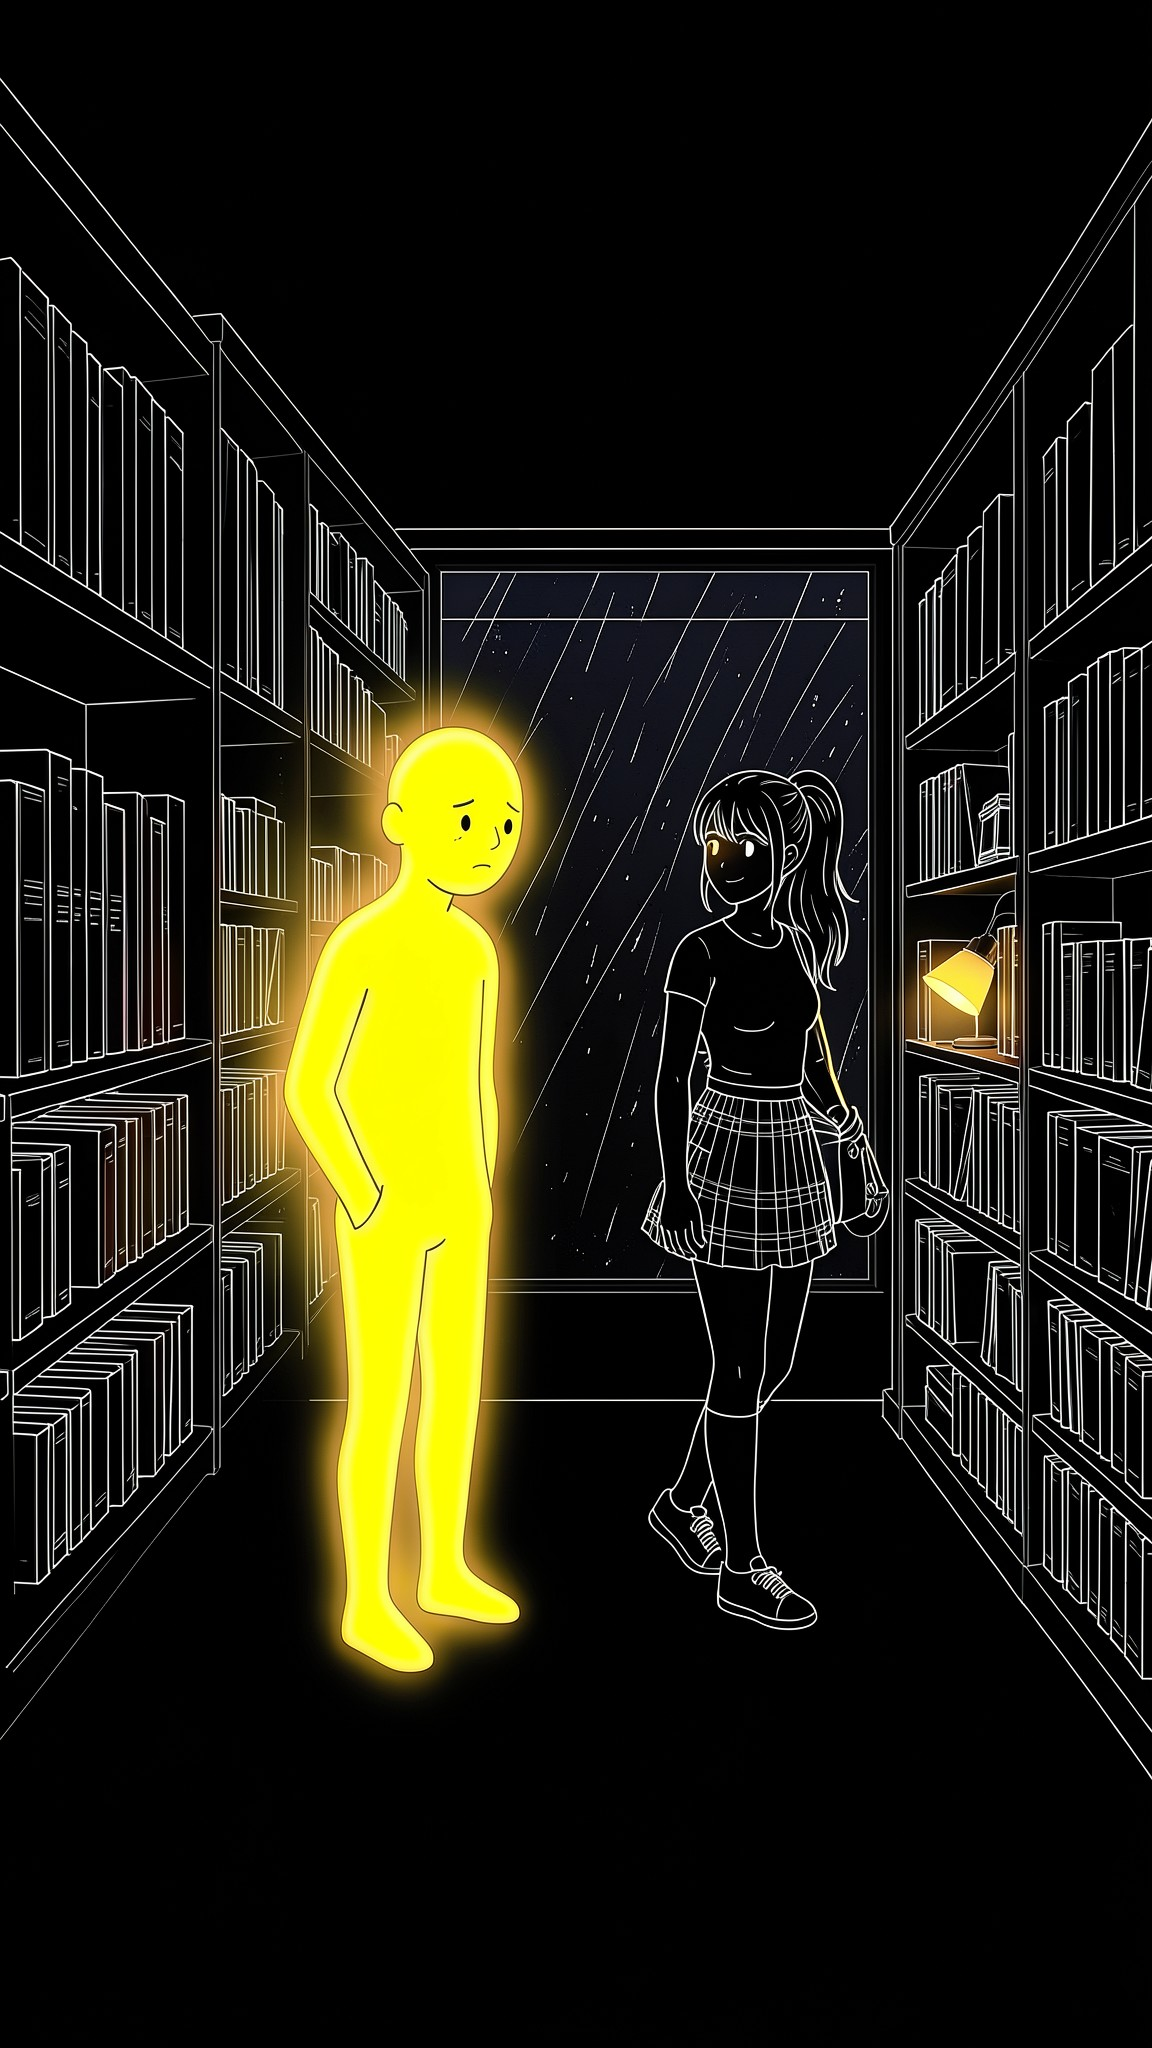
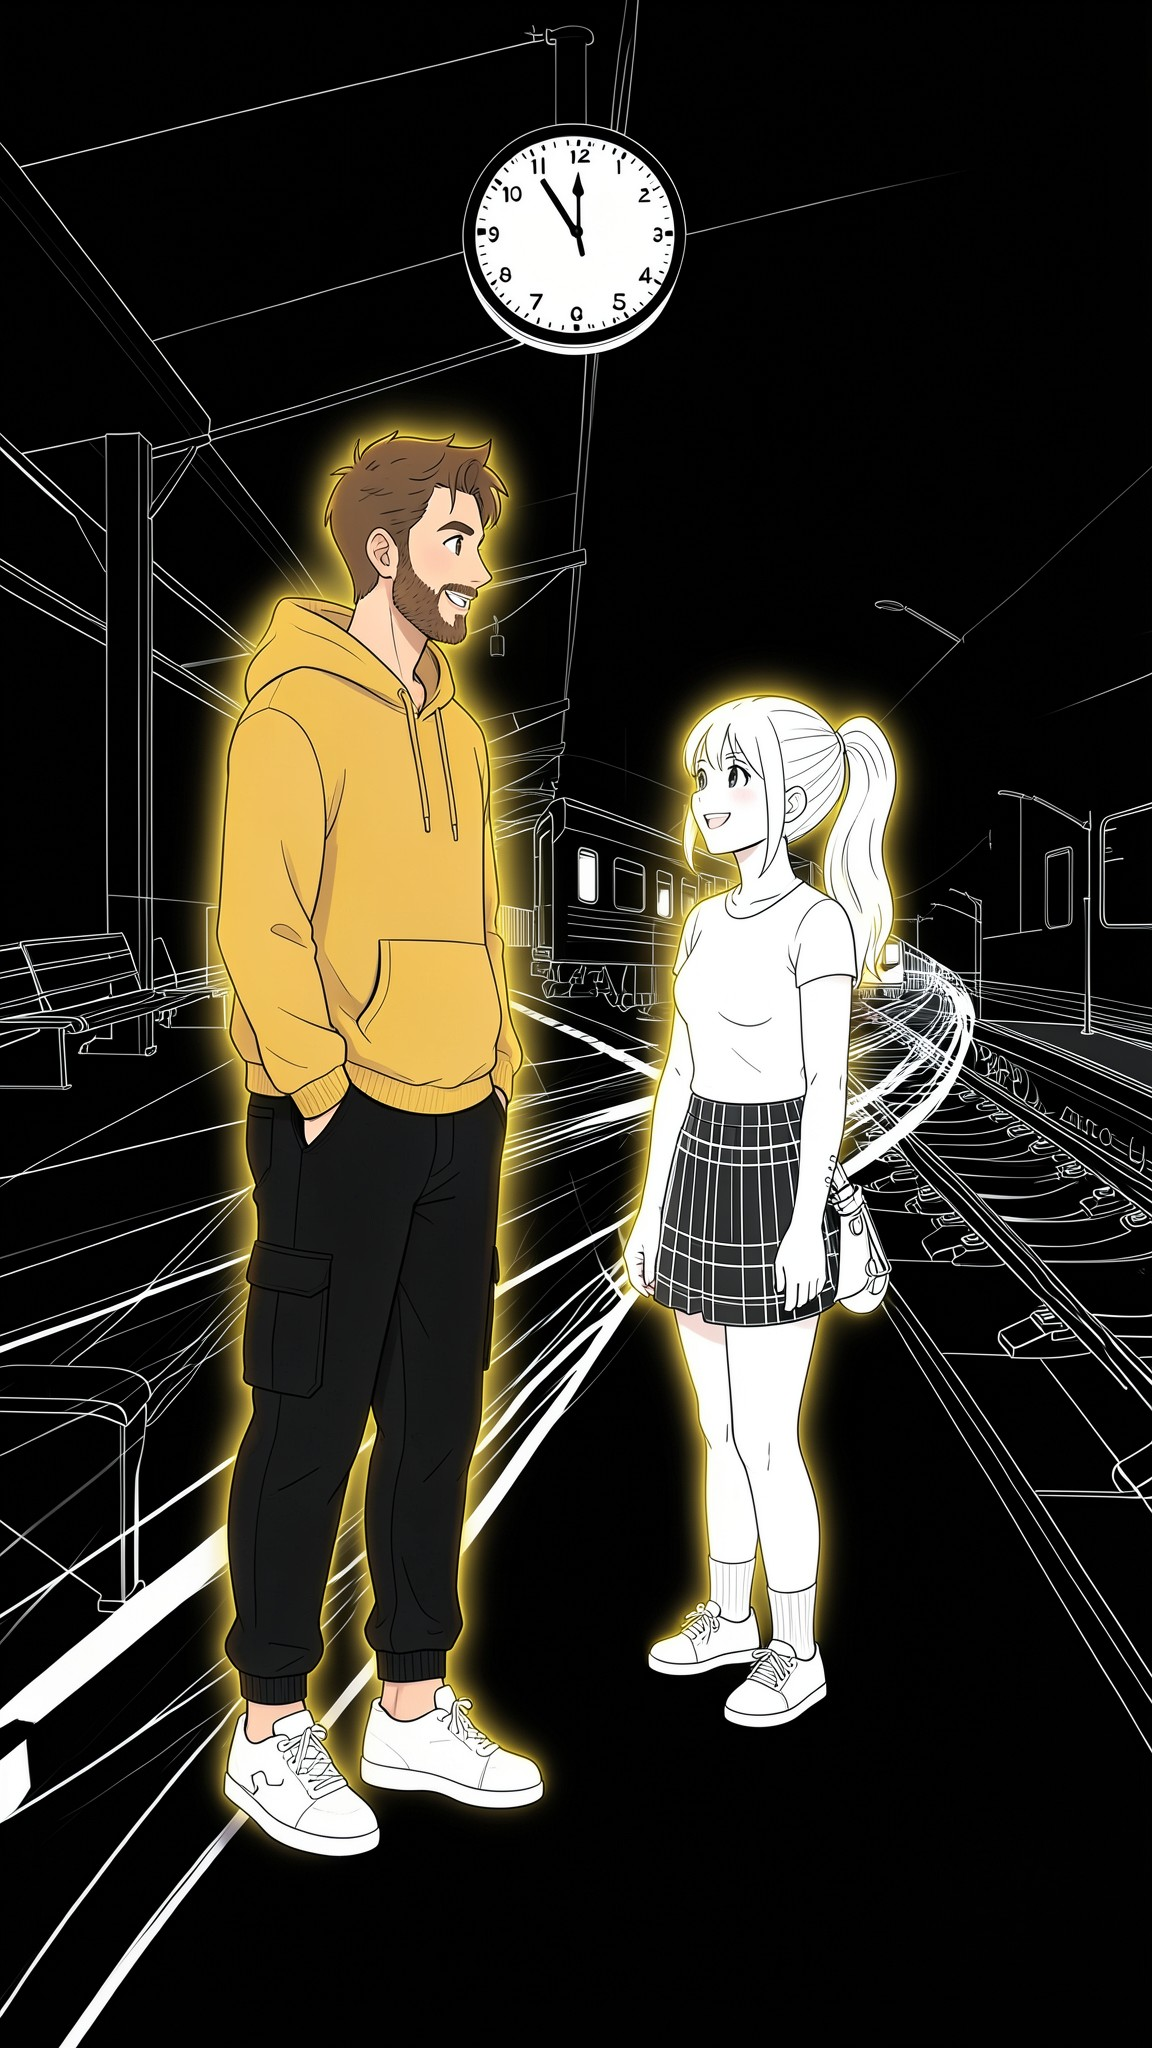
Switch main character to the bearded man in the yellow hoodie
Character sheet and crops in reels/refs, skill prompts and checks updated, man-face framing finds his face.

Claude-Session: https://claude.ai/code/session_01A4k1TtENJKSoeJ9vs1pbsG

diff --git a/reels/make_reel.py b/reels/make_reel.py
@@ -173,7 +173,7 @@ def music_bed(spec, base, starts, n):
 def focus_point(img: Path, focus) -> tuple[float, float, float]:
     """(x, y) on the image to look at, and how far down the frame to place it (0.5 = centre).
     Faces go in the upper third so the centred caption never covers them.
-    'man'/'man-face' find the glowing yellow figure by colour; [x, y] or [x, y, frame_y] are explicit."""
+    'man'/'man-face' find the man by his yellow hoodie / glow; [x, y] or [x, y, frame_y] are explicit."""
     if isinstance(focus, list):
         return float(focus[0]), float(focus[1]), float(focus[2]) if len(focus) > 2 else 0.5
     if focus in (None, "wide"):
@@ -189,9 +189,16 @@ def focus_point(img: Path, focus) -> tuple[float, float, float]:
     y0, y1 = np.percentile(ys, [2, 98])
     cx = (x0 + x1) / 2 / 192
     if focus == "man-face":
+        # The man's hair, skin and glow outline are warm but darker than his yellow hoodie: take the top of the
+        # looser warm mask as the top of his head; the face sits about a tenth of his height below it.
+        warm = (r > 120) & (g > 90) & (b < 90) & (r - b > 60)
+        wy, wx = np.nonzero(warm)
+        if len(wx) >= 40:
+            y0, y1 = np.percentile(wy, [2, 98])
+            ys, xs = wy, wx
         head = ys < y0 + (y1 - y0) * 0.2
         cx = xs[head].mean() / 192 if head.any() else cx
-        return cx, (y0 + (y1 - y0) * 0.12) / 344, 0.32
+        return cx, (y0 + (y1 - y0) * 0.1) / 344, 0.32
     return cx, (y0 + y1) / 2 / 344, 0.5
 
 

diff --git a/reels/overlay_kit.py b/reels/overlay_kit.py
@@ -64,7 +64,7 @@ def bubble(im, box, s, tail, size=56, line=WHITE, txt=WHITE, color=YELLOW):
 
 
 def yellow_mask(im):
-    """0-255 mask of the glowing yellow man (yellow pixels and their glow)."""
+    """0-255 mask of the yellow parts of the man: the whole old mannequin, or the new man's hoodie and glow."""
     a = np.asarray(im.convert("RGB")).astype(int)
     return Image.fromarray(np.clip(((a[..., 0] + a[..., 1]) / 2 - a[..., 2] - 25) * 4, 0, 255).astype("uint8"))
 

diff --git a/.claude/skills/facebook-reels/SKILL.md b/.claude/skills/facebook-reels/SKILL.md
@@ -7,7 +7,13 @@ description: Make a finished 9:16 psychology/dating Facebook reel from a script 
 
 The user sends a script; you deliver a finished MP4 in `D:\Claude\reels\output\`. Do the whole pipeline yourself —
 never propose building an app. Reference look: `D:\Claude\sample.mp4` (9:16, ~45 s, black background, white line
-art, glowing yellow faceless man + anime girl, one word at a time captions in the centre, dark trap bed).
+art, the bearded man in the yellow hoodie (see below) + anime girl, one word at a time captions in the centre, dark trap bed).
+
+**Main character (from reel 9 on — always him, never the old yellow mannequin):** `reels/refs/man-sheet.jpg`, the user's
+character sheet "The Inner You": young man, short tousled brown hair, short neat brown beard, warm friendly eyes,
+mustard-yellow hoodie, black cargo joggers, white sneakers, soft warm yellow glow around his outline. He is the only
+colour in the frame; the world and the girl stay white line art on black. The sheet also has his expressions
+(`man-expressions.jpg`) and optional outfits (blazer, olive jacket, grey tee with sling bag) for scenes that need them.
 
 Everything lives in `D:\Claude\reels\`. Each reel gets its own folder `reels/<slug>/` (prompts.json, script.txt,
 voice takes, img/, reel.json). Reuse the newest reel folder as a template — `reels/first-date/` is the most complete.
@@ -30,6 +36,7 @@ voice takes, img/, reel.json). Reuse the newest reel folder as a template — `r
 | 6 | "Body turned away, feet toward him" drawn the other way round (she faced him, feet away) | Check every body-language image says exactly what the line says (who faces whom, where the feet point). Klein always turns her face to the man — generate her alone in the pose, then paste the yellow man (cut out by his yellow pixels) on the side her feet point to |
 | 6 | Feet close-ups with crossed / back-to-front feet | Feet shots: two natural feet side by side, both toes the same way, side profile; reject any odd anatomy |
 | 7 | Man with three arms / extra hands on one side (s02 polite, s08 pointing) | **Anatomy check on every image**: count arms, hands, legs, feet per character at full size. Klein keeps the reference's hand-in-pocket and adds the new gesture as an extra arm — for any gesture, say what EACH arm does, add "exactly two arms and two hands, his hands NOT in his pockets", and make sure no arm crosses another face |
+| 8 | New main character | From reel 9 on the main character is the bearded man in the yellow hoodie (`refs/man-sheet.jpg`), never the yellow mannequin. Always pass `refs/man.jpg` as reference 1 |
 
 ## Where you are running
 
@@ -59,7 +66,9 @@ librosa can't read `voice-ref.m4a` there — convert it first (`ffmpeg -i ../aud
 - **Images (default)**: `python reels/polli.py jobs.json` → Pollinations FLUX.2 Klein 4B, parallel.
   Key: `$POLLINATIONS_KEY` or `~/.pollinations-key` locally; the proxy in the cloud. ~$0.005/image, 1152x2048. User approved the cost.
 - **Character references** (committed, use these for the establishing image of a new reel):
-  `reels/refs/characters.jpg` (man + girl), `reels/refs/man.jpg`, `reels/refs/girl.jpg`.
+  `reels/refs/man.jpg` (front/side/back of the main character — ALWAYS reference image 1 when he is in the shot),
+  `reels/refs/man-hero.jpg`, `reels/refs/characters.jpg` (him + the girl on a platform, the approved look),
+  `reels/refs/girl.jpg`. Old mannequin refs (`man-old-mannequin.jpg`, `characters-old.jpg`) are for old reels only.
   Previous reels' `img/` folders are not in git.
 - **Images (fallback, local PC only)**: Google Flow via flow-mcp (`C:\Users\Anojan\flow-mcp`). `python reels/flow.py <method> '<json>'`.
   If the server is down: run `reels/start_flow.ps1` in the background, then
@@ -93,12 +102,19 @@ librosa can't read `voice-ref.m4a` there — convert it first (`ffmpeg -i ../aud
 
 ### 3. Images — Klein with references
 - **House style** (start every prompt with it):
-  "Minimalist illustration on a pure black background, clean thin white line art with no shading. No colour
-  anywhere except the glowing yellow man. No text, letters or captions in the image unless described. Vertical 9:16 composition."
-- **Man** (in EVERY prompt where he appears, even background — else Klein draws a white human):
-  "The main character is a faceless glowing neon-yellow mannequin man: round bald head, simple cartoon face with two
-  black dot eyes, thin black eyebrows and a small black mouth, smooth solid yellow body with a soft yellow neon glow."
-- **Girl**: "A young woman drawn in white anime-style line art: long hair in a high ponytail, fitted t-shirt, plaid skirt."
+  "Minimalist illustration on a pure black background, clean thin white line art with no shading for the world and the
+  woman. The only colour in the image is the man. No text, letters or captions in the image unless described. Vertical 9:16 composition."
+  For shots with NO people use a version without any mention of the man ("…white lines only, no colour at all"), or
+  Klein paints him in anyway.
+- **Man** (in EVERY prompt where he appears, even background), with `refs/man.jpg` as reference image 1 and the prefix
+  "Reference image 1 shows exactly how the man looks: copy his face, hair, beard, yellow hoodie, black cargo pants and white sneakers.":
+  "The main character is a young man with short tousled brown hair, a short neat brown beard and warm friendly eyes, wearing a
+  mustard-yellow hoodie, black cargo jogger pants and white sneakers, drawn in clean anime line art with flat colours and a soft
+  warm yellow glow around his outline."
+- **Girl**: "A young adult woman drawn in white anime-style line art only, NOT coloured: long light hair in a high ponytail,
+  fitted t-shirt, plaid skirt, knee socks and white sneakers. She is an adult, only slightly shorter than the man, her eyes
+  level with his chin." (without the height sentence she comes out child-sized next to him)
+- **Anatomy** (every prompt with people): "Normal human anatomy: each person has exactly two arms, two hands, two legs and two feet."
 - One `Setting:` sentence per location, repeated verbatim in every prompt for that location. Then `Scene:` + action/emotion.
 - **Order**: generate the establishing image (both characters, main location) first with a previous reel's image
   as ref and the prefix "Use the reference image ONLY for how the two characters look … Completely replace the
@@ -123,7 +139,7 @@ librosa can't read `voice-ref.m4a` there — convert it first (`ffmpeg -i ../aud
   **Keep text out of the caption band (frame y 0.42–0.58)**: put titles/graphics in the upper third, or shift the
   image up in PIL. For a two-item card, make a first version with only item 1 and reveal item 2 on the next shot.
 - **Review every image** on a gridded contact sheet (red 10% grid, label in the corner). Reject: wrong location,
-  extra characters, man not yellow, garbled text, wrong emotion, the pose not saying what the line says.
+  extra characters, man not matching `refs/man.jpg` (beard, hoodie, joggers), garbled text, wrong emotion, the pose not saying what the line says.
   **Anatomy check** (zoom each character to ≥ 400 px wide, a contact-sheet thumbnail is too small): exactly two arms,
   two hands, two legs, two feet each; feet point the same way as the body; no arm crossing someone's face. Reject anything else. Regenerate rejects with a new seed and fixed refs.
   Move rejects to `img/rejected/`.
@@ -139,7 +155,7 @@ consecutive, covering the whole script), `focus`, `zoom`, `drift`, `punch`, `fla
 `flip` (VHS rewind montage). Top level: `audio` (one take), `speed`, `music_cues` or `music`, `music_volume`, `fade_out`.
 
 - **Cut every 1.5–3 s** (~18–22 shots for 40 s). No shot > 3.1 s; merge fragments < 0.8 s into a neighbour.
-- **Camera follows the narration.** `focus: "man"` / `"man-face"` are found automatically (yellow pixels).
+- **Camera follows the narration.** `focus: "man"` / `"man-face"` are found automatically (his yellow hoodie and warm glow; `man-face` lands on his face).
   Anything else: `[x, y, frame_y]` read off the gridded sheet. **Faces/bubbles at frame_y ≈ 0.3–0.36** so the
   centred caption never covers them.
 - **Zoom grammar**: section opens WIDE (zoom 1.0, `drift` 0.05) → key phrase punches in (`punch: true`,
